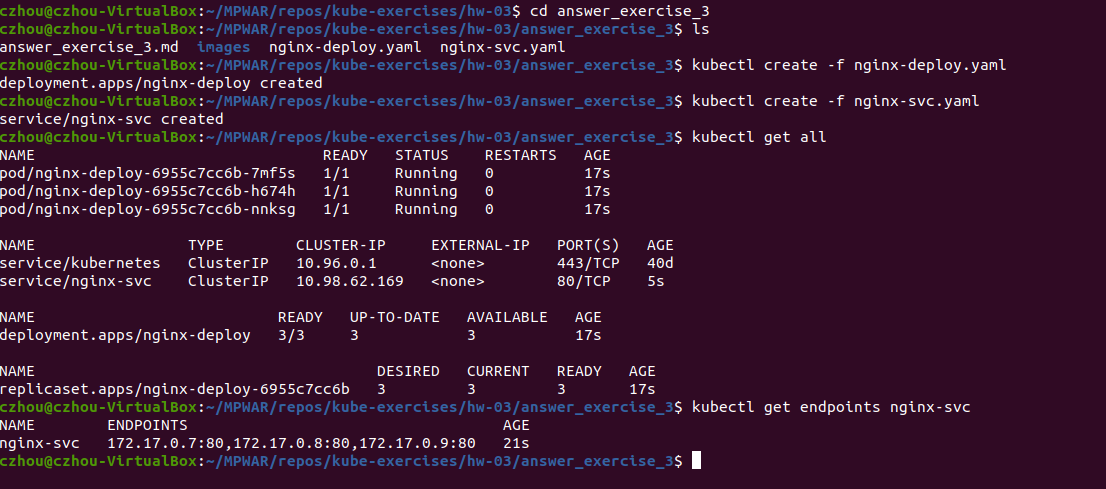
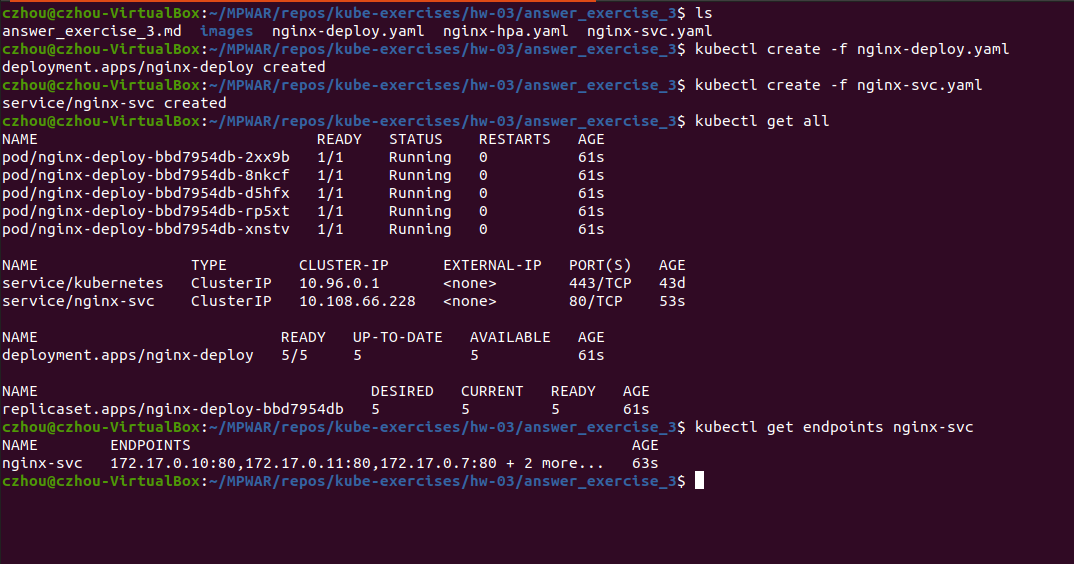
refactor: adjust min replicas to align with exercise demand

Changed region(s): [[0.0, 0.0, 0.9525, 0.9509]]

diff --git a/hw-03/answer_exercise_3/answer_exercise_3.md b/hw-03/answer_exercise_3/answer_exercise_3.md
@@ -13,10 +13,10 @@ Tenemos un deployment(nginx-deploy.yaml) y un servicio(nginx-svc.yaml).
 
 Desplegamos los pods y el servicio, y con el server corriendo podemos ejecutar:
 ~~~
-kubectl autoscale deployment nginx-deploy --cpu-percent=50 --min=3 --max=10
+kubectl autoscale deployment nginx-deploy --cpu-percent=50 --min=5 --max=10
 ~~~
-- Se crea un Horizontal Pod Autoscaler con apiVersion autoscaling/V1. En el comando especificamos que se mantendrán entre 3 y 10 réplicas, escalando y desescalando para mantener un uso medio del 50% de CPU entre todas.
-- También podemos probar con la versión autoscaling/v2beta2 partiendo del archivo nginx-hpa.yaml. 
+- Se crea un Horizontal Pod Autoscaler con apiVersion autoscaling/V1. En el comando especificamos que se mantendrán entre 5 y 10 réplicas, escalando y desescalando para mantener un uso medio del 50% de CPU entre todas. Al pasar el umbral se escalarán las réplicas directamente al máximo especificado.
+- También podemos probar con la versión autoscaling/v2beta2 partiendo del archivo nginx-hpa.yaml. Se escalará de forma progresiva.
 
 ![image](./images/screenshot_2.png)
 
@@ -30,8 +30,8 @@ kubectl run -i --tty load-generator --rm --image=busybox --restart=Never  -- sh 
 
     ![image](./images/screenshot_3.png)
 
-- Vemos que cuando el consumo pasa del umbral, se han escalado las réplicas. En este caso, vemos que al 177% de CPU pasamos de 3 a 5 réplicas (no estamos controlando la cantidad de carga; lleva un tiempo estabilizar el número de réplicas), pero al cabo de poco ya lo tenemos escalado al máximo de 10. 
+- Vemos que cuando el consumo pasa del umbral, se han escalado las réplicas al máximo. Pasamos de 5 a 10 réplicas.
 
-- Acabamos con la carga que hemos forzado con un simple ctrl+C y, dando un margen de tiempo, olvemos a consultar el estado del deployment. 
+- Acabamos con la carga que hemos forzado y, dando un margen de tiempo, volvemos a consultar el estado del deployment. 
 
     ![image](./images/screenshot_4.png)
